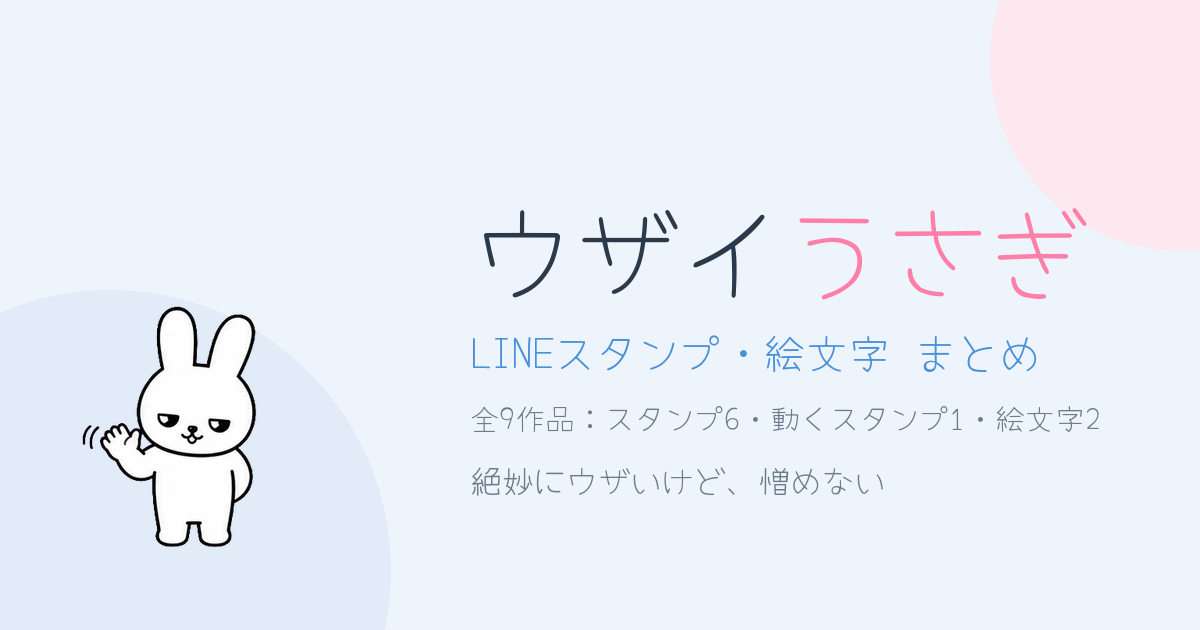
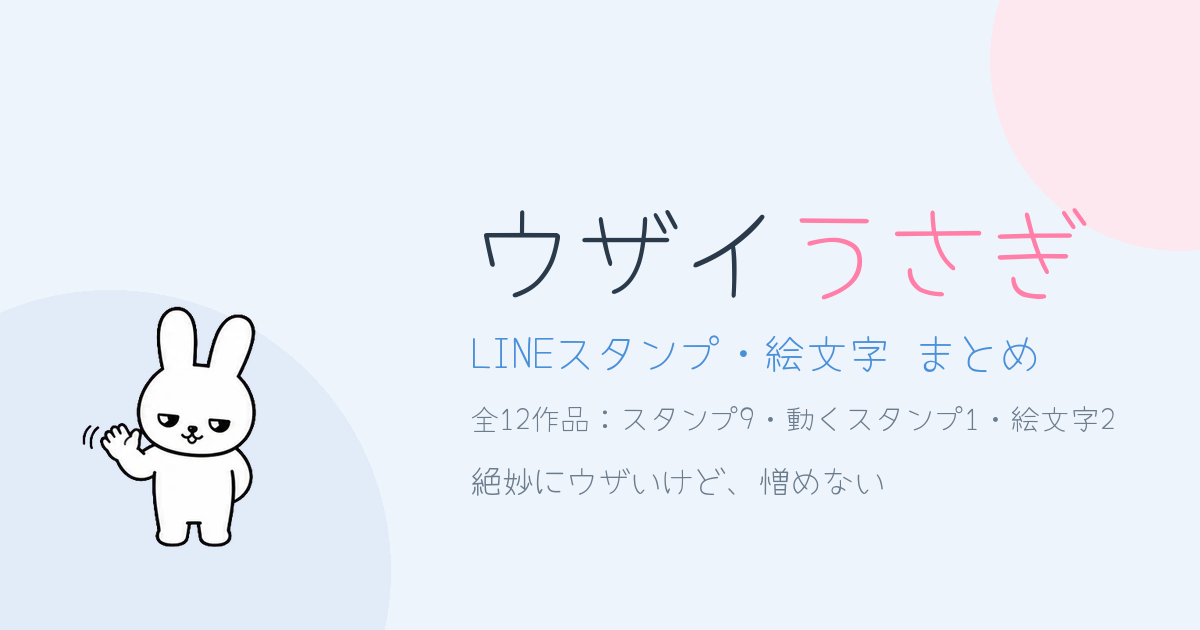
新作3本を追加（気づかい・低空飛行・超ちいさい）

Changed region(s): [[0.4008, 0.6333, 0.925, 0.6937]]

diff --git a/index.html b/index.html
@@ -141,7 +141,7 @@ footer small{color:var(--soft); font-size:12.5px; display:block; line-height:2}
       <p class="tagline">絶妙にウザいけど、憎めない</p>
       <p class="lead">小学6年生の娘が考えて、父がつくっている LINEスタンプです</p>
       <ul class="stats">
-        <li>スタンプ <b>6</b></li>
+        <li>スタンプ <b>9</b></li>
         <li>動くスタンプ <b>1</b></li>
         <li>絵文字 <b>2</b></li>
       </ul>
@@ -152,8 +152,8 @@ footer small{color:var(--soft); font-size:12.5px; display:block; line-height:2}
 
 <nav class="filter">
   <div class="wrap">
-    <button class="chip" data-filter="all" aria-pressed="true">ぜんぶ<small>9</small></button>
-    <button class="chip" data-filter="stamp" aria-pressed="false">スタンプ<small>6</small></button>
+    <button class="chip" data-filter="all" aria-pressed="true">ぜんぶ<small>12</small></button>
+    <button class="chip" data-filter="stamp" aria-pressed="false">スタンプ<small>9</small></button>
     <button class="chip" data-filter="animated" aria-pressed="false">動くスタンプ<small>1</small></button>
     <button class="chip" data-filter="emoji" aria-pressed="false">絵文字<small>2</small></button>
   </div>
@@ -193,7 +193,7 @@ footer small{color:var(--soft); font-size:12.5px; display:block; line-height:2}
           <span class="zoom">タップで中身を全部見る</span>
         </button>
         <div class="body">
-          <div class="meta"><span class="tag tag-stamp">スタンプ</span><span class="count">全16種</span><span class="new">NEW</span></div>
+          <div class="meta"><span class="tag tag-stamp">スタンプ</span><span class="count">全16種</span></div>
           <h3>ウザイうさぎ 丁寧な敬語編</h3>
           <p>ちゃんとしてるのに、なぜかウザい！ 目上の人にも送れる敬語スタンプ</p>
           <ul class="scenes"><li>目上の人</li><li>仕事のLINE</li><li>お礼・お詫び</li></ul>
@@ -206,11 +206,50 @@ footer small{color:var(--soft); font-size:12.5px; display:block; line-height:2}
           <span class="zoom">タップで中身を全部見る</span>
         </button>
         <div class="body">
-          <div class="meta"><span class="tag tag-stamp">スタンプ</span><span class="count">全16種</span><span class="new">NEW</span></div>
+          <div class="meta"><span class="tag tag-stamp">スタンプ</span><span class="count">全16種</span></div>
           <h3>ウザイうさぎ 家族内業務連絡</h3>
           <p>帰宅・迎え・ごはん、家族LINEの定型連絡が半目でぜんぶ片づく！</p>
           <ul class="scenes"><li>家族LINE</li><li>帰宅・迎え</li><li>夫婦・親子</li></ul>
           <a class="cta" href="https://store.line.me/stickershop/product/35775227/ja" target="_blank" rel="noopener">LINEストアで見る <span>→</span></a>
+        </div>
+      </article>
+      <article class="card" data-type="stamp" id="p-care">
+        <button class="pop" data-full="images/care.webp" data-title="ウザイうさぎの気づかい">
+          <img src="images/care_card.webp" alt="ウザイうさぎの気づかい の紹介画像" loading="lazy" width="640" height="640">
+          <span class="zoom">タップで中身を全部見る</span>
+        </button>
+        <div class="body">
+          <div class="meta"><span class="tag tag-stamp">スタンプ</span><span class="count">全16種</span><span class="new">NEW</span></div>
+          <h3>ウザイうさぎの気づかい</h3>
+          <p>「無理しないでね」「返信不要です」半目なのに、やることはやさしい16個！</p>
+          <ul class="scenes"><li>気づかい</li><li>ねぎらい</li><li>仕事のLINE</li></ul>
+          <a class="cta" href="https://store.line.me/stickershop/product/35777409/ja" target="_blank" rel="noopener">LINEストアで見る <span>→</span></a>
+        </div>
+      </article>
+      <article class="card" data-type="stamp" id="p-low-battery">
+        <button class="pop" data-full="images/low-battery.webp" data-title="ウザイうさぎ、今日は低空飛行">
+          <img src="images/low-battery_card.webp" alt="ウザイうさぎ、今日は低空飛行 の紹介画像" loading="lazy" width="640" height="640">
+          <span class="zoom">タップで中身を全部見る</span>
+        </button>
+        <div class="body">
+          <div class="meta"><span class="tag tag-stamp">スタンプ</span><span class="count">全16種</span><span class="new">NEW</span></div>
+          <h3>ウザイうさぎ、今日は低空飛行</h3>
+          <p>「しんど」「今日はむり」重くならない言い方で、元気じゃない日を伝えられる16個！</p>
+          <ul class="scenes"><li>しんどい日</li><li>断りたい時</li><li>保留したい時</li></ul>
+          <a class="cta" href="https://store.line.me/stickershop/product/35815505/ja" target="_blank" rel="noopener">LINEストアで見る <span>→</span></a>
+        </div>
+      </article>
+      <article class="card" data-type="stamp" id="p-tiny">
+        <button class="pop" data-full="images/tiny.webp" data-title="超ちいさいウザイうさぎ">
+          <img src="images/tiny_card.webp" alt="超ちいさいウザイうさぎ の紹介画像" loading="lazy" width="640" height="640">
+          <span class="zoom">タップで中身を全部見る</span>
+        </button>
+        <div class="body">
+          <div class="meta"><span class="tag tag-stamp">スタンプ</span><span class="count">全16種</span><span class="new">NEW</span></div>
+          <h3>超ちいさいウザイうさぎ</h3>
+          <p>画面を占領しない超ミニサイズ！ 了解・おつ・またねの短い返事にちょうどいい</p>
+          <ul class="scenes"><li>短い返事</li><li>グループLINE</li><li>連投しても平気</li></ul>
+          <a class="cta" href="https://store.line.me/stickershop/product/35776857/ja" target="_blank" rel="noopener">LINEストアで見る <span>→</span></a>
         </div>
       </article>
       <article class="card" data-type="stamp" id="p-sokuresu-dajare">
@@ -219,7 +258,7 @@ footer small{color:var(--soft); font-size:12.5px; display:block; line-height:2}
           <span class="zoom">タップで中身を全部見る</span>
         </button>
         <div class="body">
-          <div class="meta"><span class="tag tag-stamp">スタンプ</span><span class="count">全16種</span><span class="new">NEW</span></div>
+          <div class="meta"><span class="tag tag-stamp">スタンプ</span><span class="count">全16種</span></div>
           <h3>ウザイうさぎ ダジャレ即レス編</h3>
           <p>返事とダジャレを同時に済ませる、欲張りな16個！</p>
           <ul class="scenes"><li>ダジャレ</li><li>即レス</li><li>ウケ狙い</li></ul>
@@ -232,7 +271,7 @@ footer small{color:var(--soft); font-size:12.5px; display:block; line-height:2}
           <span class="zoom">タップで中身を全部見る</span>
         </button>
         <div class="body">
-          <div class="meta"><span class="tag tag-stamp">スタンプ</span><span class="count">全16種</span><span class="new">NEW</span></div>
+          <div class="meta"><span class="tag tag-stamp">スタンプ</span><span class="count">全16種</span></div>
           <h3>ウザイうさぎ ダジャレ即レス編2</h3>
           <p>ダジャレが足りない人へ、かぶらないネタをもう16個！</p>
           <ul class="scenes"><li>ダジャレ</li><li>即レス</li><li>ウケ狙い</li></ul>
@@ -245,7 +284,7 @@ footer small{color:var(--soft); font-size:12.5px; display:block; line-height:2}
           <span class="zoom">タップで中身を全部見る</span>
         </button>
         <div class="body">
-          <div class="meta"><span class="tag tag-animated">動くスタンプ</span><span class="count">全8種</span><span class="new">NEW</span></div>
+          <div class="meta"><span class="tag tag-animated">動くスタンプ</span><span class="count">全8種</span></div>
           <h3>ウザイうさぎ よく動くスタンプ2</h3>
           <p>手を振る、迫る、耳が垂れる。動くとウザさが増す8個！</p>
           <ul class="scenes"><li>あいさつ</li><li>お礼</li><li>盛り上げたい時</li></ul>
@@ -258,7 +297,7 @@ footer small{color:var(--soft); font-size:12.5px; display:block; line-height:2}
           <span class="zoom">タップで中身を全部見る</span>
         </button>
         <div class="body">
-          <div class="meta"><span class="tag tag-emoji">絵文字</span><span class="count">全32種</span><span class="new">NEW</span></div>
+          <div class="meta"><span class="tag tag-emoji">絵文字</span><span class="count">全32種</span></div>
           <h3>ウザイうさぎ 顔芸リアクション</h3>
           <p>半目の顔芸とジェスチャーだけを32種類！ 文字なしでも気持ちが伝わる</p>
           <ul class="scenes"><li>文中にまぜる</li><li>リアクション</li><li>グループLINE</li></ul>
@@ -310,6 +349,27 @@ footer small{color:var(--soft); font-size:12.5px; display:block; line-height:2}
         <div>
           <p class="scene-label">家族の連絡（帰宅・迎え・ごはん）</p>
           <div class="scene-links"><a href="#p-family-ops">ウザイうさぎ 家族内業務連絡</a></div>
+        </div>
+      </li>
+      <li class="scene">
+        <span class="scene-emoji">🍀</span>
+        <div>
+          <p class="scene-label">気をつかいたい・ねぎらいたい</p>
+          <div class="scene-links"><a href="#p-care">ウザイうさぎの気づかい</a></div>
+        </div>
+      </li>
+      <li class="scene">
+        <span class="scene-emoji">🔋</span>
+        <div>
+          <p class="scene-label">しんどい日・断りたい日</p>
+          <div class="scene-links"><a href="#p-low-battery">ウザイうさぎ、今日は低空飛行</a></div>
+        </div>
+      </li>
+      <li class="scene">
+        <span class="scene-emoji">🤏</span>
+        <div>
+          <p class="scene-label">ひと言だけ返したい</p>
+          <div class="scene-links"><a href="#p-tiny">超ちいさいウザイうさぎ</a></div>
         </div>
       </li>
       <li class="scene">
